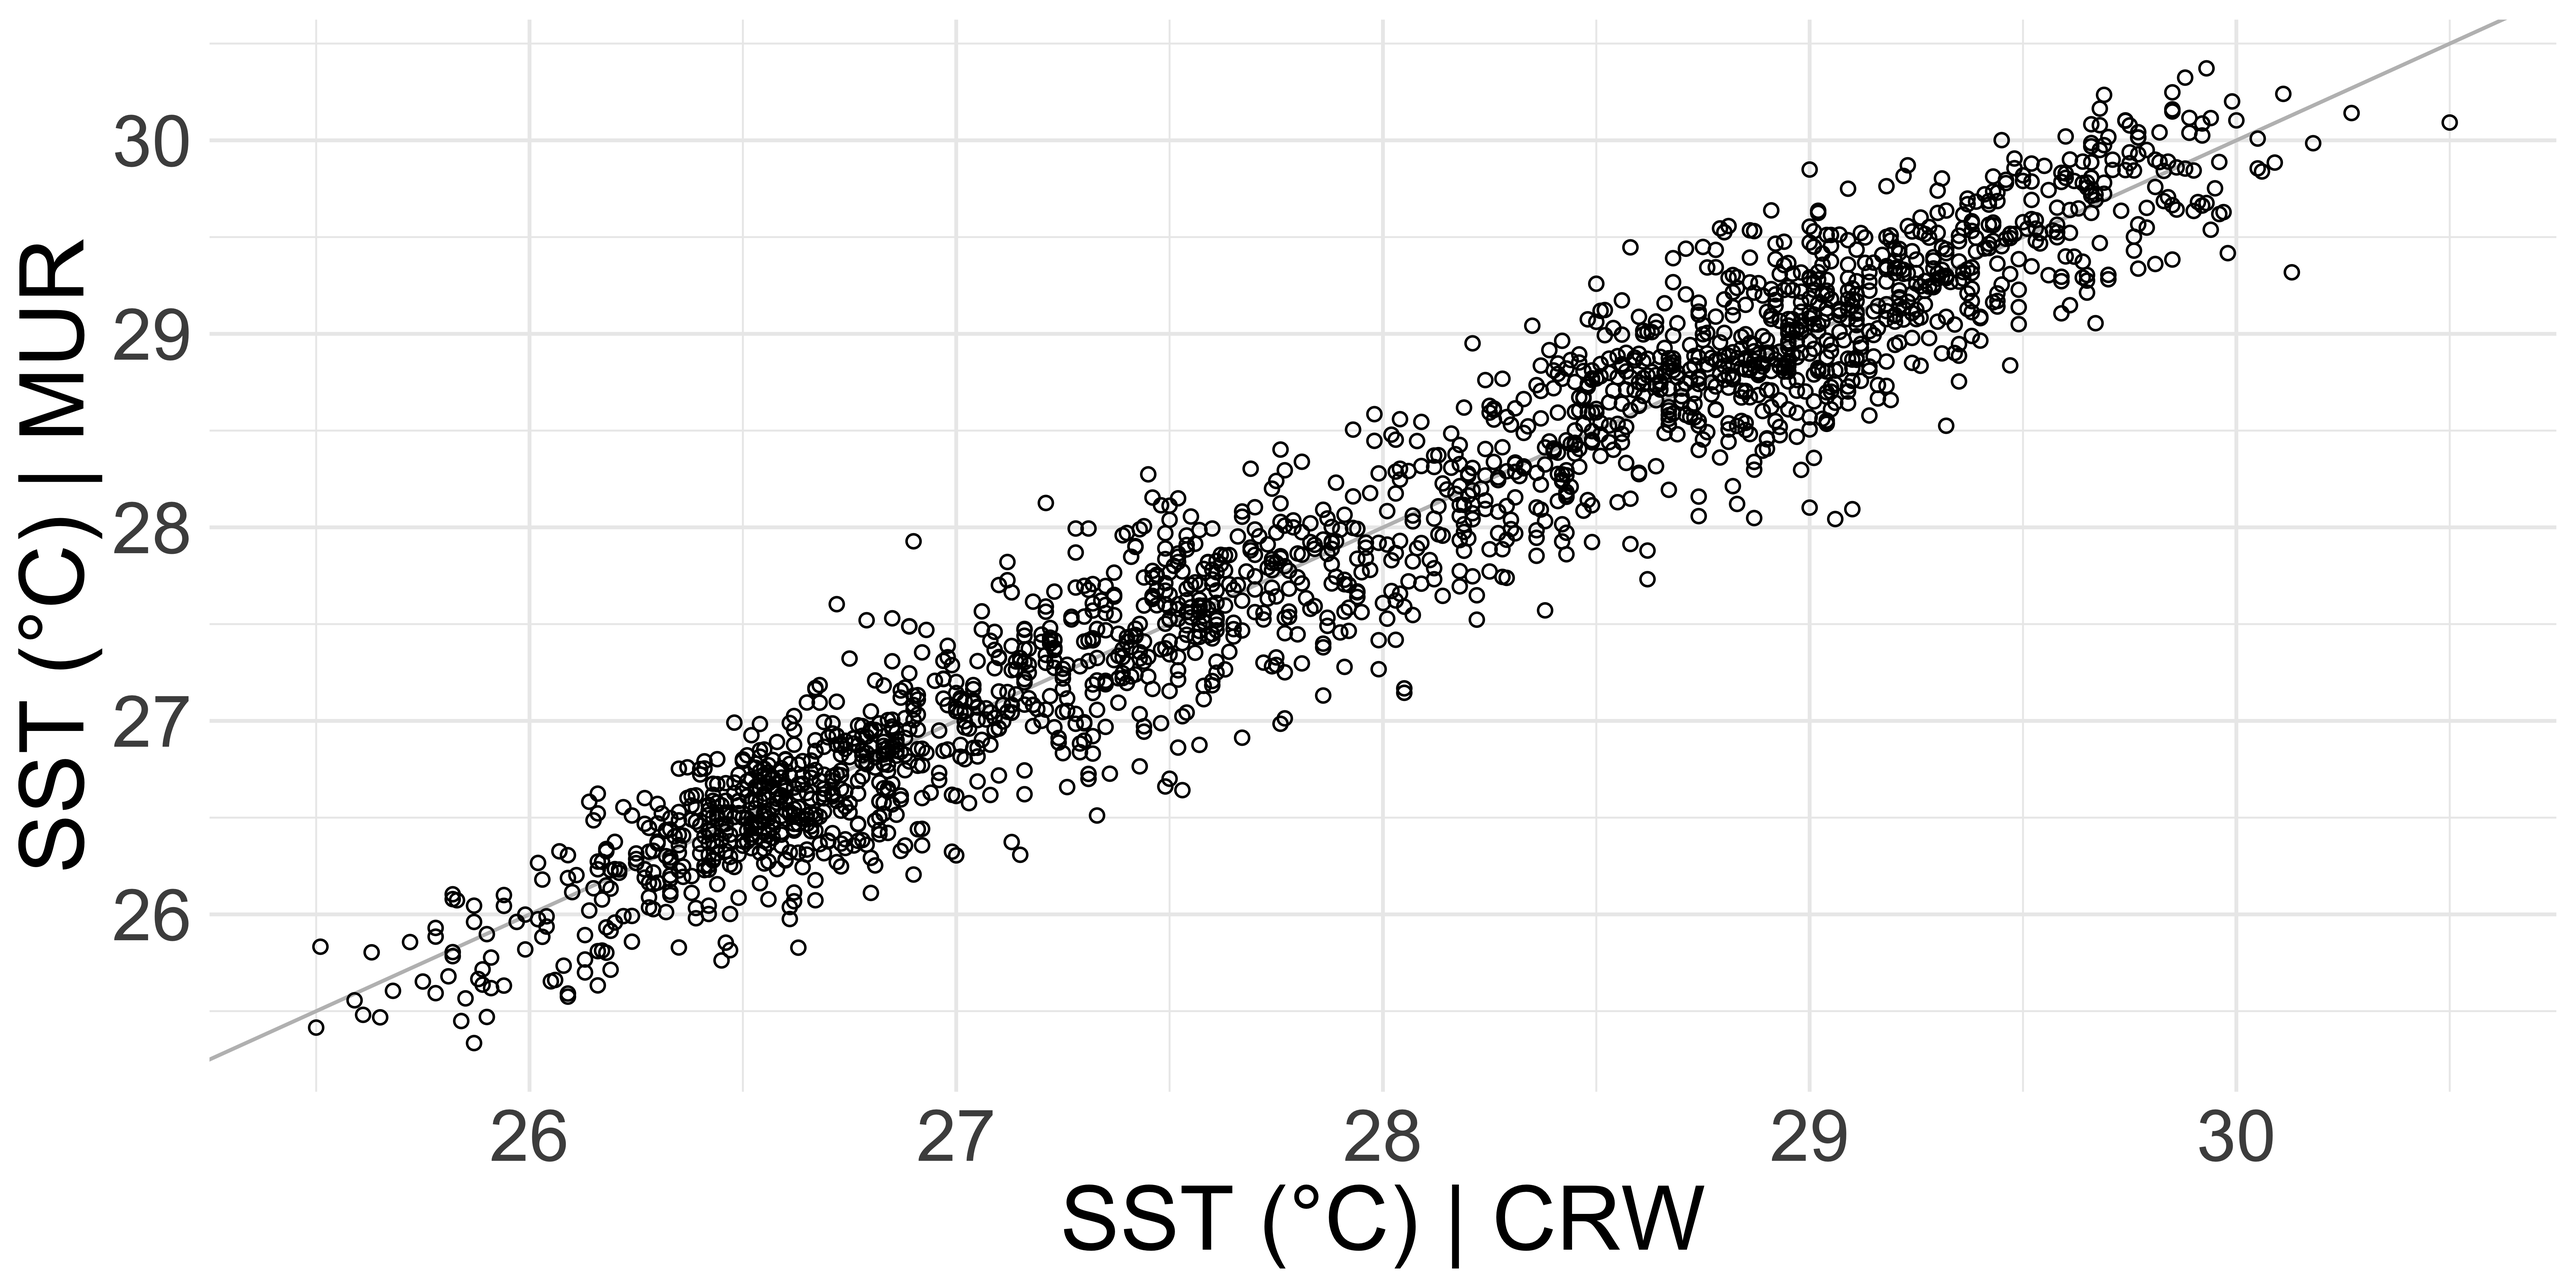
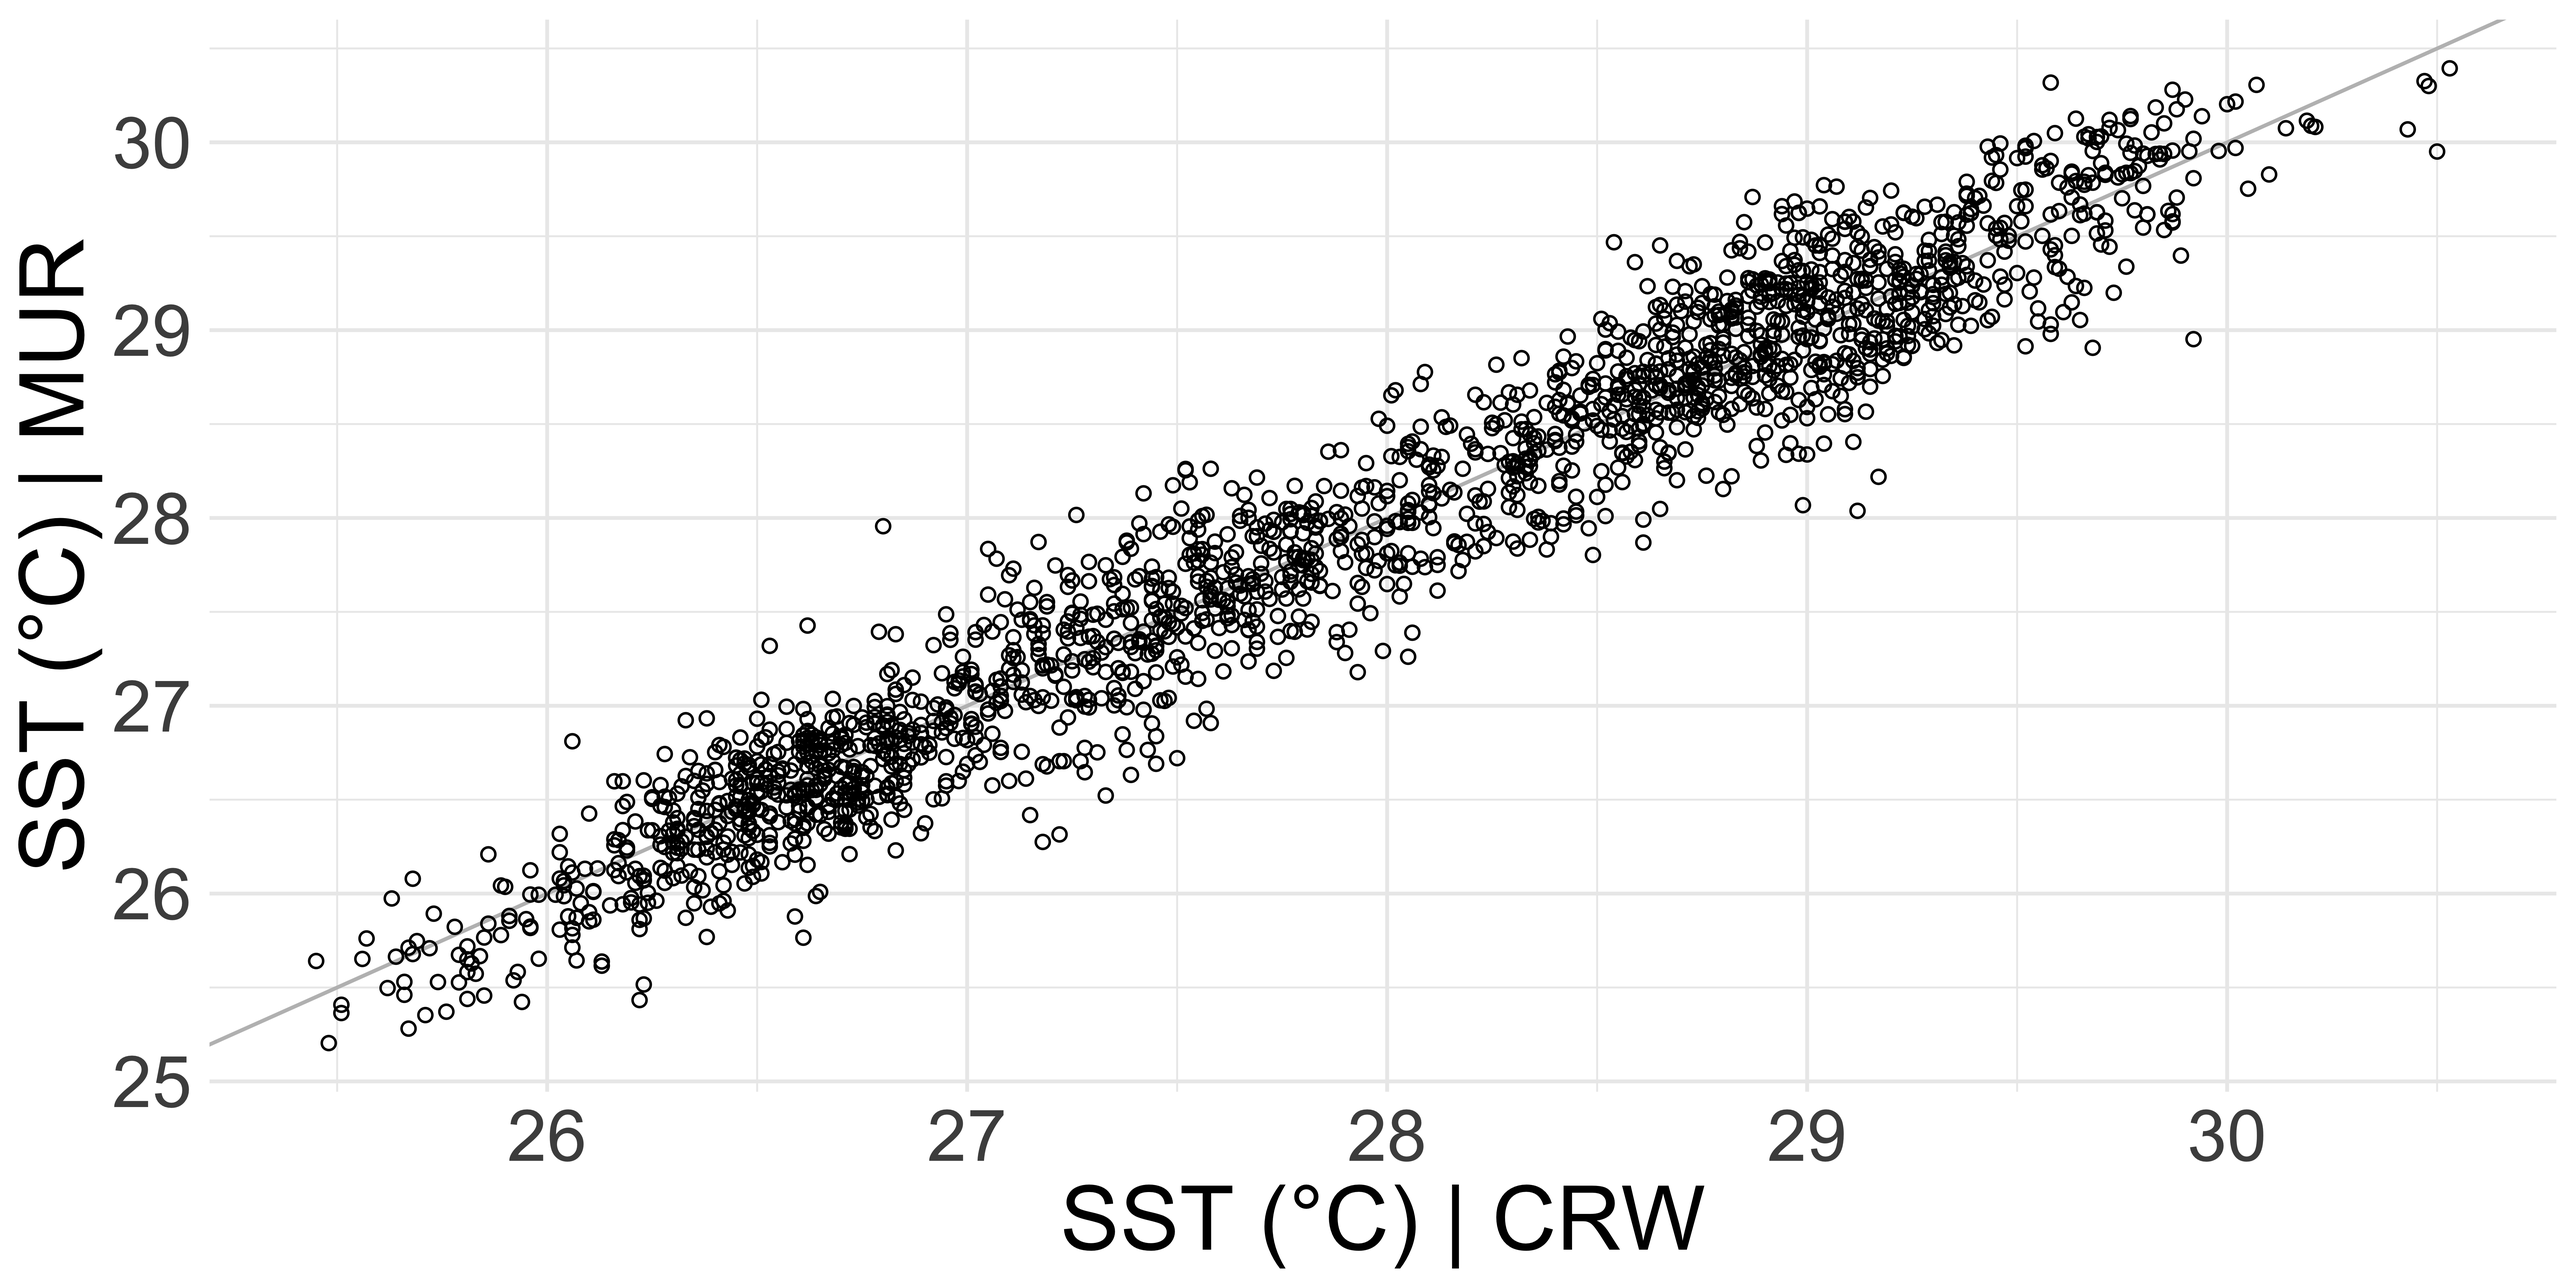
- added example how to download MUR SST

diff --git a/scripts/DHW_Intro.html b/scripts/DHW_Intro.html
@@ -444,7 +444,7 @@
 <li><p>Linear regression <span class="math inline">\(MM \sim year\)</span></p></li>
 <li><p>Use coefficients to calculate expected mean temperature for year 1988.286 (mean between 1985 and 1993, excluding 1991 - 1992, eruption of Mt. Pinatubo)</p></li>
 <li><p>Choose month with highest temperature (MMM = Maximum Monthly Mean)</p></li>
-<li><p>Comparable to previous versions (mean of monthly mean between 1985 - 1990 + 1993) but including more data ==&gt; more stable</p></li>
+<li><p>Comparable to previous versions (mean of monthly mean between 1985 - 1990 + 1993) but including more data =&gt; more stable</p></li>
 </ol>
 </div><div class="column" style="width:50%;">
 <div class="cell" data-fig.asp="0.8">
@@ -553,8 +553,6 @@
 [1] "Will download  1 lat vals, 21 lon vals, and 10 day vals"
 [1] "Will download from https://pae-paha.pacioos.hawaii.edu/erddap/griddap/dhw_5km.nc?CRW_DHW[(2022-01-01):1:(2022-01-10)][(-89.975):1:(-89.975)][(-17.025):1:(-18.025)]"
 
-Downloading: 10 B     
-Downloading: 10 B     
 Downloading: 10 B     
 Downloading: 10 B     
 Downloading: 10 B     
@@ -682,6 +680,20 @@ Can filter area</p>
 <p>DHW with MUR SST based on CRW MMM vs Dixon et al.&nbsp;MMM</p>
 
 <img data-src="DHW_Intro_files/figure-revealjs/unnamed-chunk-15-1.png" width="4000" class="r-stretch"></section>
+<section id="alternative-mur-sst-4" class="slide level2">
+<h2>Alternative: MUR SST</h2>
+<p>To download</p>
+<div class="cell">
+<div class="sourceCode cell-code" id="cb10"><pre class="sourceCode numberSource r number-lines code-with-copy"><code class="sourceCode r"><span id="cb10-1"><a href="#cb10-1"></a><span class="fu">download_erddap</span>(<span class="at">lat1 =</span> <span class="sc">-</span><span class="dv">151</span>,</span>
+<span id="cb10-2"><a href="#cb10-2"></a>                <span class="at">lat2 =</span> <span class="sc">-</span><span class="dv">150</span>,</span>
+<span id="cb10-3"><a href="#cb10-3"></a>                <span class="at">lon1 =</span> <span class="sc">-</span><span class="fl">16.5</span>,</span>
+<span id="cb10-4"><a href="#cb10-4"></a>                <span class="at">lon2 =</span> <span class="sc">-</span><span class="fl">17.5</span>,</span>
+<span id="cb10-5"><a href="#cb10-5"></a>                <span class="at">day1 =</span> <span class="st">"2022-01-01"</span>,</span>
+<span id="cb10-6"><a href="#cb10-6"></a>                <span class="at">day2 =</span> <span class="st">"2022-01-10"</span>,</span>
+<span id="cb10-7"><a href="#cb10-7"></a>                <span class="at">server_type =</span> <span class="st">"MUR"</span>, <span class="co">#or "CoastWatch"</span></span>
+<span id="cb10-8"><a href="#cb10-8"></a>                <span class="at">path =</span> <span class="st">"~/Desktop/test_mur.nc"</span>) <span class="co">#temp file if not set</span></span></code><button title="Copy to Clipboard" class="code-copy-button"><i class="bi"></i></button></pre></div>
+</div>
+</section>
 <section id="alternative-degree-heating-days" class="slide level2">
 <h2>Alternative: Degree Heating Days</h2>
 <ul>
@@ -693,7 +705,7 @@ Can filter area</p>
 <section id="alternative-degree-heating-days-1" class="slide level2">
 <h2>Alternative: Degree Heating Days</h2>
 
-<img data-src="DHW_Intro_files/figure-revealjs/unnamed-chunk-16-1.png" width="4000" class="r-stretch"></section>
+<img data-src="DHW_Intro_files/figure-revealjs/unnamed-chunk-17-1.png" width="4000" class="r-stretch"></section>
 <section class="slide level2 smaller scrollable" id="references">
 
 <div class="footer footer-default">
